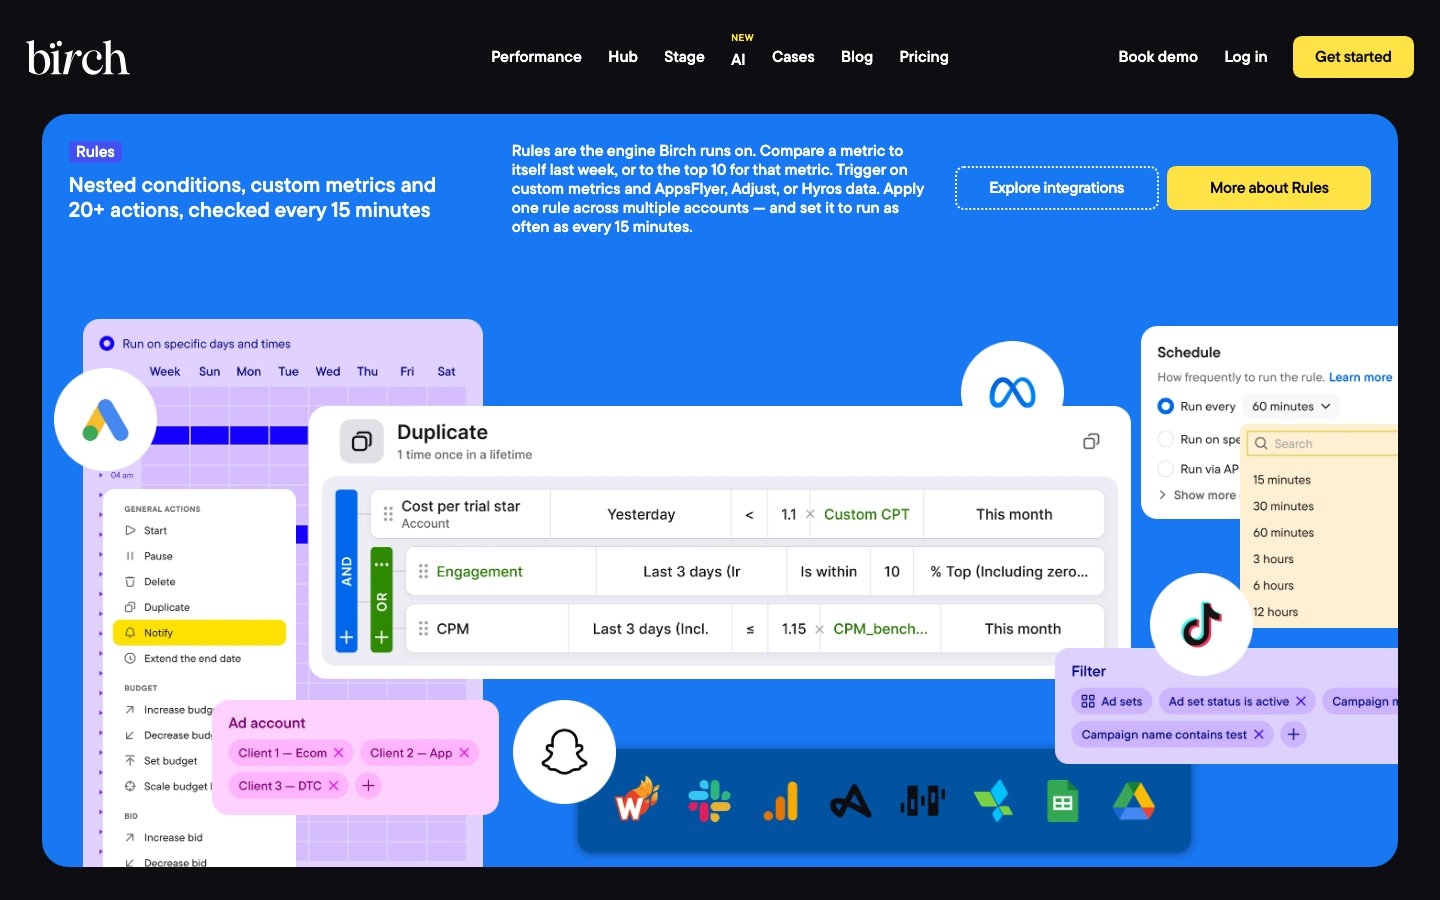
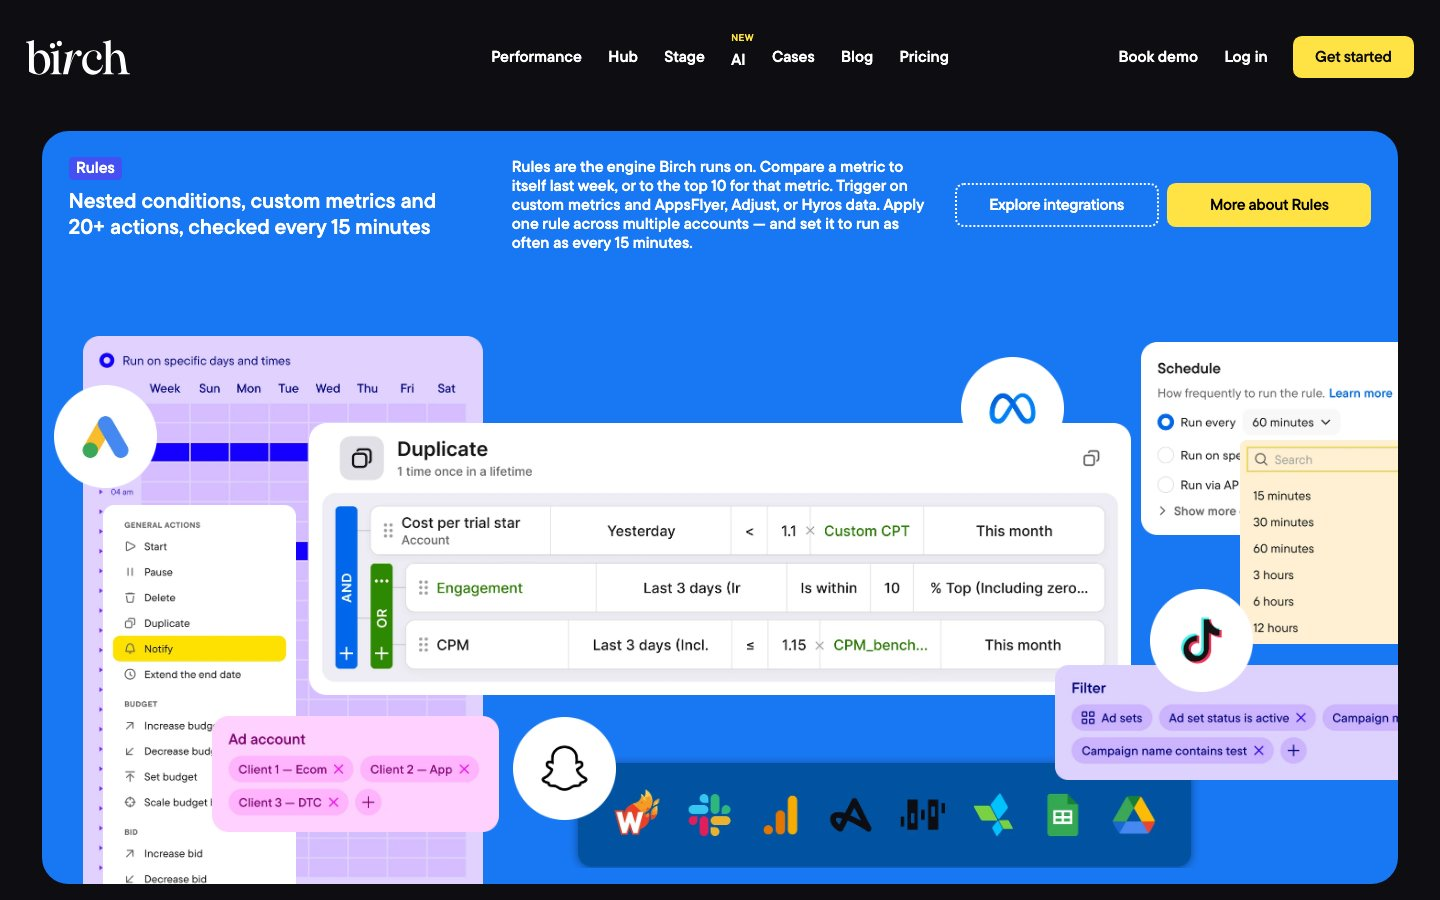
Слайдер главной: шаг 02_4 — рутина
Чат уезжает влево, на сцену выходят trigger, routine, папка Drive и
коллаж креативов; рамка правил и две сущности гаснут. Коллаж взят одним
ассетом ads.png — его пропорция 1.205 совпадает с группой из трёх фото
в макете, а внутри группы ничего не движется.

У авторской высоты появилась дельта к h550 (--dh): чат 352 → 400 теперь
считается той же формулой, что и всё остальное, а не был прибит к 400
на всех экранах. Иконка приложения — сосед .chat-card-wrap внутри
фрагмента чата, поэтому едет вместе с ним, а --u в ней меряет холст.

Панель: чтение показателей устойчиво к удалению панели из DOM.

Changed region(s): [[0.0312, 0.3422, 0.9688, 0.9956], [0.0312, 0.1244, 0.9688, 0.28]]

diff --git a/home-slides.html b/home-slides.html
@@ -196,9 +196,9 @@
   --up: clamp(0px, (100cqh - 364 * var(--u)), 186 * var(--u));
   --dn: clamp(0px, (364 * var(--u) - 100cqh), 64 * var(--u));
 
-  --dx: 0; --dy: 0; --dw: 0;
+  --dx: 0; --dy: 0; --dw: 0; --dh: 0;
   --bx: 0; --by: 0; --bw: 0;
-  --dx2: var(--dx); --dy2: var(--dy); --dw2: var(--dw);
+  --dx2: var(--dx); --dy2: var(--dy); --dw2: var(--dw); --dh2: var(--dh);
   --bx2: var(--bx); --by2: var(--by); --bw2: var(--bw);
   --o1: 1; --o2: 1;
 
@@ -229,8 +229,8 @@
 /* Fragments whose height is authored rather than inherited from an
    image's own ratio — the clip frame and the chat. */
 .hs__frag--sized {
-  --ph1: calc(var(--h)  * var(--u));
-  --ph2: calc(var(--h2) * var(--u));
+  --ph1: calc(var(--h)  * var(--u) + var(--up) * var(--dh)  / 186);
+  --ph2: calc(var(--h2) * var(--u) + var(--up) * var(--dh2) / 186);
   height: calc((1 - var(--t)) * var(--ph1) + var(--t) * var(--ph2));
 }
 
@@ -275,6 +275,18 @@
      card is 4.8% of its width. */
   font-size: 4.8cqi;
   border-radius: 6.67cqi;
+}
+
+/* The app icon sits just outside the chat, to its left, and travels with
+   it. It is a sibling of .chat-card-wrap, so --u here still measures the
+   canvas rather than the chat. */
+.hs__chat-icon {
+  position: absolute;
+  left: calc(-67 * var(--u));
+  top: 0;
+  width: calc(64 * var(--u));
+  height: auto;
+  border-radius: 0;
 }
 
 /* Tool lines — what Birch is doing right now, one per source it reads.
@@ -508,6 +520,7 @@
                style="--x:48; --y:199; --w:336.44; --lit:0; z-index:16">
           <div data-frag="chat" class="hs__frag hs__frag--sized hs__chat"
                style="--x:452; --y:19; --w:300; --h:352; z-index:17">
+            <img class="hs__chat-icon" src="images/slides/01/app-icon.webp" alt="" width="154" height="154">
             <div class="chat-card-wrap">
               <div class="chat-card">
                 <div class="chat-card__body">
@@ -545,6 +558,20 @@
               </div>
             </div>
           </div>
+
+          <!-- Step 4 — the routine: trigger, routine card, Drive folder, creatives -->
+          <img data-frag="ads-collage" class="hs__frag hs__frag--fade" src="images/slides/01/ads-collage.webp"
+               alt="Creatives" width="1205" height="1000" loading="lazy" decoding="async"
+               style="--x:723; --y:2; --w:501.98; z-index:9">
+          <img data-frag="trigger" class="hs__frag hs__frag--fade" src="images/slides/01/trigger.webp"
+               alt="Trigger" width="890" height="391" loading="lazy" decoding="async"
+               style="--x:434; --y:95; --w:371; z-index:18">
+          <img data-frag="routine" class="hs__frag hs__frag--fade" src="images/slides/01/routine.webp"
+               alt="Routine" width="650" height="338" loading="lazy" decoding="async"
+               style="--x:881; --y:108; --w:271; z-index:18">
+          <img data-frag="folder" class="hs__frag hs__frag--fade" src="images/slides/01/folder.webp"
+               alt="Google Drive folder" width="383" height="344" loading="lazy" decoding="async"
+               style="--x:986; --y:287.32; --w:159.47; z-index:19">
 
           <div class="hs__guide" data-label="364 — эталон"></div>
           <div class="hs__core-box" id="coreBox"></div>
@@ -586,7 +613,8 @@
     { slide: 0 },   /* 0 — the collage */
     { slide: 0 },   /* 1 — scatter, the rules stack out */
     { slide: 1 },   /* 2 — the stack folds into "Your automation rules" */
-    { slide: 1 }    /* 3 — geometry holds still; this segment is the chat */
+    { slide: 1 },   /* 3 — geometry holds still; this segment is the chat */
+    { slide: 1 }    /* 4 — the routine: chat moves aside, the rule takes shape */
   ];
 
   /* Keyframes per fragment, one entry per step. Anything omitted is
@@ -614,7 +642,7 @@
 
     /* The closing window. Wider than the canvas until step 2, so it is
        invisible as a frame and clips nothing. */
-    'rules-frame':        [{x:-200, y:-100, w:1632, h:800, d:[0,0,0], b:[0,0,0]}, {}, {x:29, y:39, w:276, h:275, d:[0,35,0]}],
+    'rules-frame':        [{x:-200, y:-100, w:1632, h:800, d:[0,0,0], b:[0,0,0]}, {}, {x:29, y:39, w:276, h:275, d:[0,35,0]}, {}, {o:0}],
     'rules-face':         [{o:0}, {o:0}, {o:1}],
 
     /* The three cards are children of the window, so their coordinates
@@ -634,9 +662,17 @@
 
     /* Slide 02. They arrive together for now — lighting them one by one
        is the chat's job, and the chat is not wired yet. */
-    'business-context':   [{x:226, y:114, w:194.25, o:0, d:[0,66,0], b:[0,0,0]}, {}, {o:1}],
-    'meta-ads-library':   [{x:48,  y:199, w:336.44, o:0, d:[0,83,0], b:[0,0,0]}, {}, {o:1}],
-    'chat':               [{x:452, y:19,  w:300, h:352, o:0, d:[0,56,0], b:[0,0,0]}, {}, {o:1, h:400}]
+    'business-context':   [{x:226, y:114, w:194.25, o:0, d:[0,66,0], b:[0,0,0]}, {}, {o:1}, {}, {o:0}],
+    'meta-ads-library':   [{x:48,  y:199, w:336.44, o:0, d:[0,83,0], b:[0,0,0]}, {}, {o:1}, {}, {o:0}],
+    'chat':               [{x:452, y:19,  w:300, h:352, o:0, d:[0,56,0,48], b:[0,0,0]}, {}, {o:1}, {}, {x:103}],
+
+    /* Step 4 — the routine. Everything arrives in place; the chat slides
+       left to make room for it. Both h550 frames move the whole group by
+       the same 69, the folder by 75. */
+    'ads-collage':        [{x:723, y:2,      w:501.98, o:0, d:[0,69,0], b:[0,0,0]}, {}, {}, {}, {o:1}],
+    'trigger':            [{x:434, y:95,     w:371,    o:0, d:[0,69,0], b:[0,0,0]}, {}, {}, {}, {o:1}],
+    'routine':            [{x:881, y:108,    w:271,    o:0, d:[0,69,0], b:[0,0,0]}, {}, {}, {}, {o:1}],
+    'folder':             [{x:986, y:287.32, w:159.47, o:0, d:[0,75,0], b:[0,0,0]}, {}, {}, {}, {o:1}]
   };
 
   /* Flatten the inheritance once, so lookup during scroll is a plain read. */
@@ -702,6 +738,7 @@
       st.setProperty('--x',  ka.x);  st.setProperty('--y',  ka.y);  st.setProperty('--w',  ka.w);
       st.setProperty('--x2', kb.x);  st.setProperty('--y2', kb.y);  st.setProperty('--w2', kb.w);
       st.setProperty('--h',  ka.h);  st.setProperty('--h2', kb.h);
+      st.setProperty('--dh', ka.d[3] || 0); st.setProperty('--dh2', kb.d[3] || 0);
       st.setProperty('--dx', ka.d[0]); st.setProperty('--dy', ka.d[1]); st.setProperty('--dw', ka.d[2]);
       st.setProperty('--bx', ka.b[0]); st.setProperty('--by', ka.b[1]); st.setProperty('--bw', ka.b[2]);
       st.setProperty('--dx2', kb.d[0]); st.setProperty('--dy2', kb.d[1]); st.setProperty('--dw2', kb.d[2]);

diff --git a/debug/geo-panel.js b/debug/geo-panel.js
@@ -188,7 +188,8 @@ var FLOOR = 300;
       coreBox.style.height = (y2 - y1) + 'px';
     }
   }
-  function set(id, v) { document.getElementById(id).textContent = v; }
+  /* null-safe: the panel may be removed from the DOM (screenshots) while scroll listeners still fire */
+  function set(id, v) { var el = document.getElementById(id); if (el) el.textContent = v; }
 
   render();
   if (document.fonts && document.fonts.ready) document.fonts.ready.then(render);
